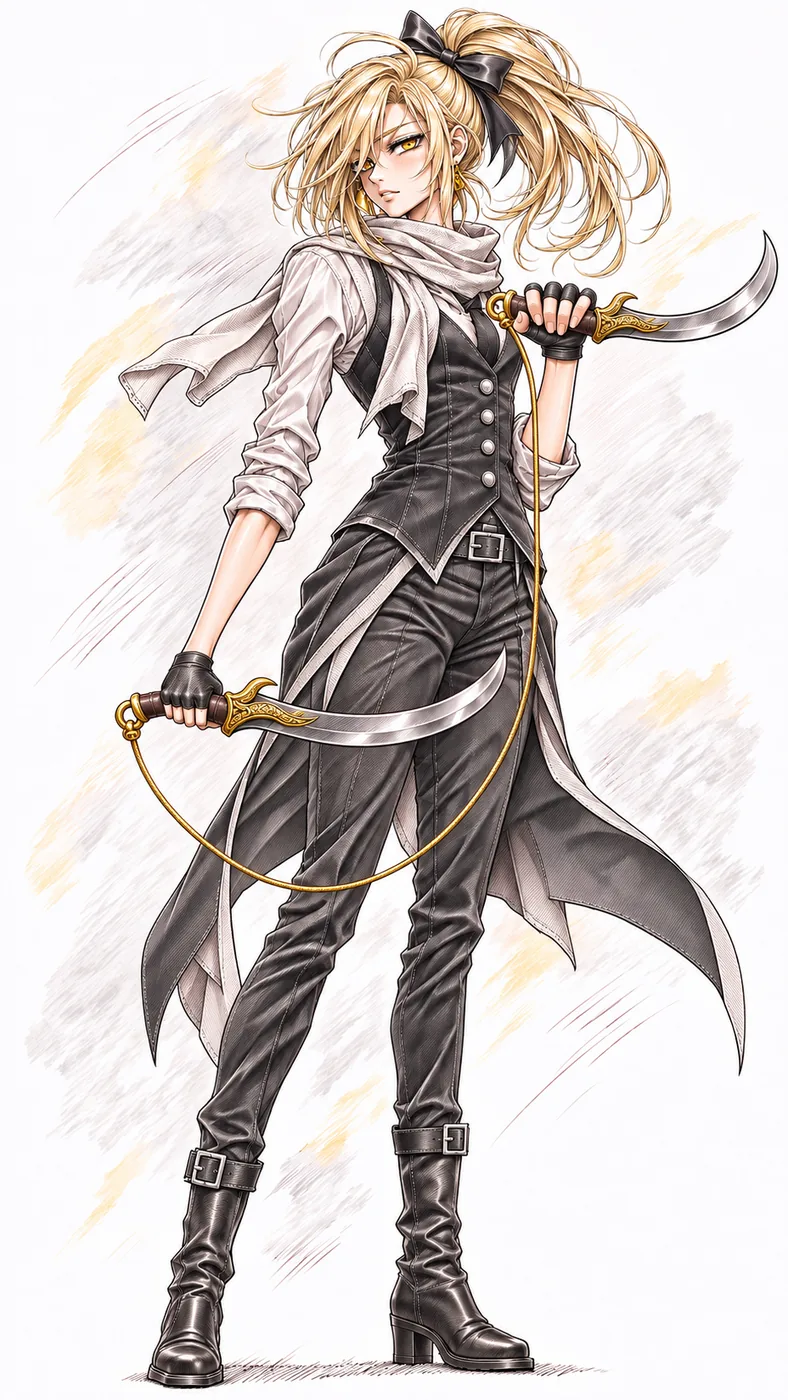
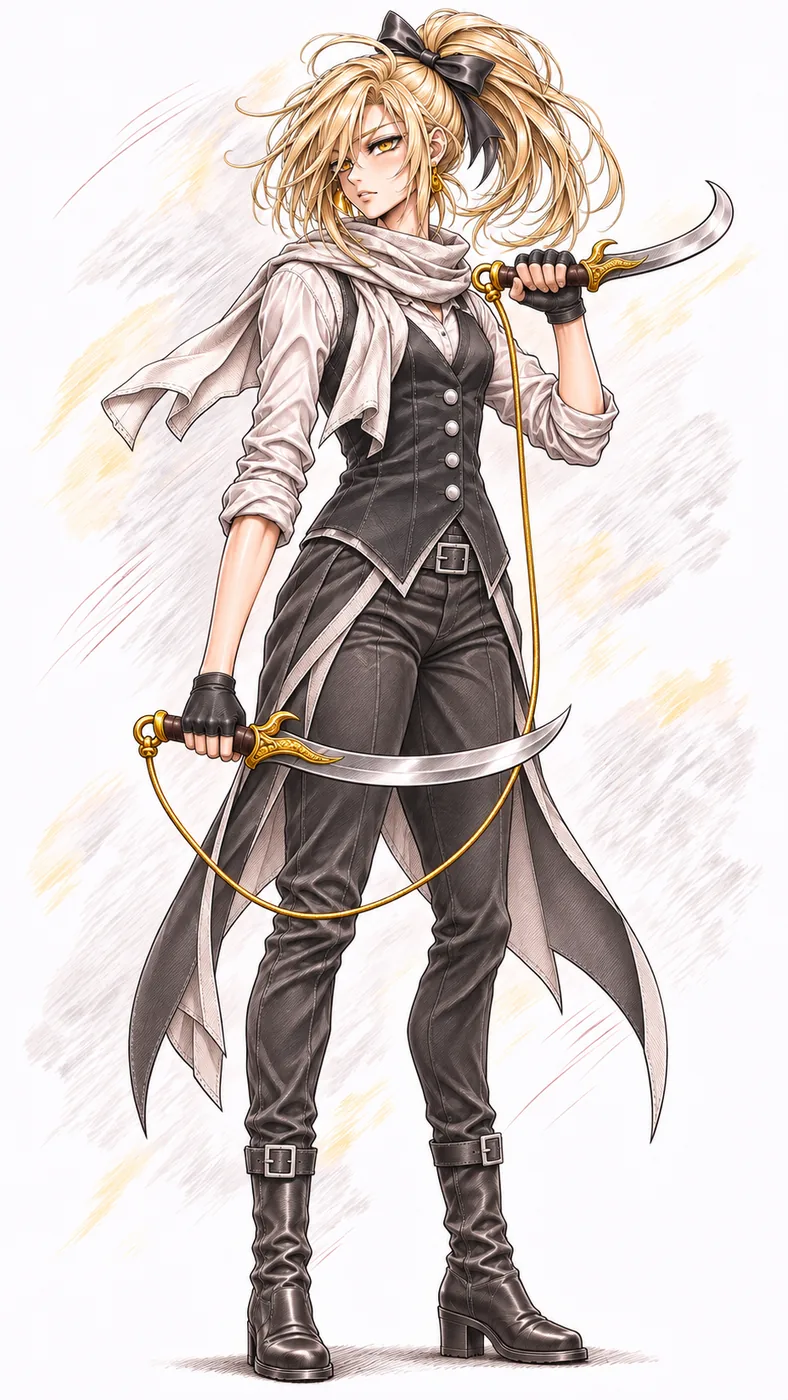
v1.13.15.1 마르자나 현대판 컷인·전신 갱신
Claude-Session: https://claude.ai/code/session_01PBDNhaywpHQ5s49Snvd1Mw

diff --git a/index.html b/index.html
@@ -384,7 +384,7 @@ dialog.notes{background:linear-gradient(180deg,#e6d8bd,#d9c8a8);border:1px solid
 .shrow .ic{display:grid;place-items:center;width:36px;height:36px;border-radius:6px;background:#efe3cb;border:1px solid #b89c6c;font-size:20px;font-family:'Apple Color Emoji','Segoe UI Emoji','Noto Color Emoji',sans-serif}
 .shm b{display:block;font-size:15px;color:#2e2218}.shd{font-size:12px;color:#6b5640}
 .pips{display:flex;gap:3px;margin-top:4px}.pips i{width:12px;height:5px;border-radius:2px;background:#d8c7a6}.pips i.on{background:#c9701e}
-.shbuy{min-width:84px}.achoff{opacity:.62}.achoff .ic{filter:grayscale(1)}.achc{font-weight:700;white-space:nowrap;font-size:.92em}.achget{flex:none;padding:7px 14px;border:0;border-radius:10px;background:linear-gradient(#ffcf4a,#f0a41c);color:#4a2a00;font:inherit;font-weight:800;cursor:pointer;box-shadow:0 2px 0 #b9740c;white-space:nowrap}.achget:active{transform:translateY(1px);box-shadow:none}.shrow.achrdy{background:rgba(255,214,90,.28);border-color:#e6a627;box-shadow:0 0 0 2px rgba(240,164,28,.35) inset}.achall{display:block;width:100%;margin:8px 0 2px;padding:10px;font-size:1.05em}.achdot{display:inline-block;min-width:18px;padding:0 5px;margin-left:4px;border-radius:9px;background:#e8402a;color:#fff;font-size:.8em;line-height:18px;text-align:center}.galgrid{display:grid;grid-template-columns:repeat(auto-fill,minmax(112px,1fr));gap:8px}.galit{display:flex;flex-direction:column;align-items:center;gap:3px;padding:6px;border:1px solid #c4ad84;border-radius:8px;background:rgba(250,244,232,.55);font:inherit;cursor:pointer;color:#3b2a16}.galit b{font-size:.82em;line-height:1.2;text-align:center}.galtag{font-style:normal;font-size:.7em;opacity:.7;line-height:1.1}.galit em{font-style:normal;font-size:.78em;font-weight:700;color:#9a5a12}.galth{display:block;width:104px;height:130px;border-radius:5px;background:#efe6d6 url('assets/gallery/thumbs2.webp?v=6') no-repeat;background-size:600% 700%}/* 썸네일은 한 장짜리 모음(6×7) */.galalpha{background:linear-gradient(160deg,#fdf6ea,#e7d9f3)}.galit.lock .galth{filter:blur(6px) brightness(.55) saturate(.6)}.galit.lock{opacity:.9}.galview{position:fixed;inset:0;z-index:99999;background:rgba(8,8,14,.93);display:flex;align-items:center;justify-content:center}.galview img{max-width:96vw;max-height:84vh;object-fit:contain;border-radius:6px;box-shadow:0 10px 40px rgba(0,0,0,.6)}.galview img.galalpha{background:linear-gradient(160deg,#fdf6ea,#e7d9f3)}.galcap{position:absolute;left:0;right:0;bottom:14px;text-align:center;color:#fff;text-shadow:0 1px 4px #000}.galcap b{display:block;font-size:1.05em}.galcap span{font-size:.82em;opacity:.85}.galx,.galp,.galn{position:absolute;border:0;background:rgba(255,255,255,.14);color:#fff;font-size:28px;width:48px;height:48px;border-radius:50%;cursor:pointer}.galx{top:14px;right:14px;font-size:22px}.galp{left:12px;top:50%;transform:translateY(-50%)}.galn{right:12px;top:50%;transform:translateY(-50%)}.achtabs{display:flex;flex-wrap:wrap;gap:6px;margin:4px 0 10px}.achtab{flex:1 1 auto;padding:7px 10px;border:1px solid #c4ad84;border-radius:999px;background:rgba(250,244,232,.55);font:inherit;font-weight:700;cursor:pointer;color:#5a4224}.achtab small{opacity:.7;font-weight:600}.achtab.on{background:#d9822b;border-color:#b0611a;color:#fff}.shbuy:disabled{opacity:.55}
+.shbuy{min-width:84px}.achoff{opacity:.62}.achoff .ic{filter:grayscale(1)}.achc{font-weight:700;white-space:nowrap;font-size:.92em}.achget{flex:none;padding:7px 14px;border:0;border-radius:10px;background:linear-gradient(#ffcf4a,#f0a41c);color:#4a2a00;font:inherit;font-weight:800;cursor:pointer;box-shadow:0 2px 0 #b9740c;white-space:nowrap}.achget:active{transform:translateY(1px);box-shadow:none}.shrow.achrdy{background:rgba(255,214,90,.28);border-color:#e6a627;box-shadow:0 0 0 2px rgba(240,164,28,.35) inset}.achall{display:block;width:100%;margin:8px 0 2px;padding:10px;font-size:1.05em}.achdot{display:inline-block;min-width:18px;padding:0 5px;margin-left:4px;border-radius:9px;background:#e8402a;color:#fff;font-size:.8em;line-height:18px;text-align:center}.galgrid{display:grid;grid-template-columns:repeat(auto-fill,minmax(112px,1fr));gap:8px}.galit{display:flex;flex-direction:column;align-items:center;gap:3px;padding:6px;border:1px solid #c4ad84;border-radius:8px;background:rgba(250,244,232,.55);font:inherit;cursor:pointer;color:#3b2a16}.galit b{font-size:.82em;line-height:1.2;text-align:center}.galtag{font-style:normal;font-size:.7em;opacity:.7;line-height:1.1}.galit em{font-style:normal;font-size:.78em;font-weight:700;color:#9a5a12}.galth{display:block;width:104px;height:130px;border-radius:5px;background:#efe6d6 url('assets/gallery/thumbs2.webp?v=7') no-repeat;background-size:600% 700%}/* 썸네일은 한 장짜리 모음(6×7) */.galalpha{background:linear-gradient(160deg,#fdf6ea,#e7d9f3)}.galit.lock .galth{filter:blur(6px) brightness(.55) saturate(.6)}.galit.lock{opacity:.9}.galview{position:fixed;inset:0;z-index:99999;background:rgba(8,8,14,.93);display:flex;align-items:center;justify-content:center}.galview img{max-width:96vw;max-height:84vh;object-fit:contain;border-radius:6px;box-shadow:0 10px 40px rgba(0,0,0,.6)}.galview img.galalpha{background:linear-gradient(160deg,#fdf6ea,#e7d9f3)}.galcap{position:absolute;left:0;right:0;bottom:14px;text-align:center;color:#fff;text-shadow:0 1px 4px #000}.galcap b{display:block;font-size:1.05em}.galcap span{font-size:.82em;opacity:.85}.galx,.galp,.galn{position:absolute;border:0;background:rgba(255,255,255,.14);color:#fff;font-size:28px;width:48px;height:48px;border-radius:50%;cursor:pointer}.galx{top:14px;right:14px;font-size:22px}.galp{left:12px;top:50%;transform:translateY(-50%)}.galn{right:12px;top:50%;transform:translateY(-50%)}.achtabs{display:flex;flex-wrap:wrap;gap:6px;margin:4px 0 10px}.achtab{flex:1 1 auto;padding:7px 10px;border:1px solid #c4ad84;border-radius:999px;background:rgba(250,244,232,.55);font:inherit;font-weight:700;cursor:pointer;color:#5a4224}.achtab small{opacity:.7;font-weight:600}.achtab.on{background:#d9822b;border-color:#b0611a;color:#fff}.shbuy:disabled{opacity:.55}
 .shmsg{min-height:18px;color:#2f8a62;font-weight:700;margin:6px 0 0}
 </style>
 
@@ -3510,8 +3510,8 @@ $('retryBtn').onclick=()=>{const h=G.skin||G.heroId;stopMusic();newGame(h)};
 buildPicks(id=>{const k=KIT(id),w=WEAP[HERO[k][0]];/* 1.9.6.0 카드엔 무기 이름·체력·속도만, 자세한 건 툴팁 */return`<span class="pt">${w.ic||''} ${w.name}</span><span class="ps">❤ ${HERO[k][1]} · 👟 ${HERO[k][2]}</span>`});
 
 /* ---------- update notes popup ---------- */
-const NOTES_VER='2026-11-15-2010';
-const NOTES=[["11월 15일 20:10","1.13.15.0","업적 보상 받기",["🏆 업적을 달성하면 업적 목록 맨 위에 반짝이며 떠요. 「받기」를 눌러 코인을 받고, 「🎁 모두 받기」로 한 번에 받을 수도 있어요.","🔴 받을 보상이 있으면 업적 버튼과 탭에 빨간 숫자가 붙어요. (예전에 달성한 업적은 이미 받은 것으로 처리돼요)"]],["11월 15일 18:00","1.13.14.1","새 모습 · 설표 비키니",["🐆 설표에 <b>비키니</b> 복장이 생겼어요. 움직임을 새로 그렸고, 필살기를 쓰면 튜브 → 물보라 → 물총 <b>3컷 컷인</b>이 나와요.","🆕 같은 캐릭터의 여러 모습 중 가장 새 모습이 1번으로 와요.","⚔ 마르자나 현대판 「천지파열무」 컷인을 새로 그린 그림으로 바꿨어요."]],["11월 15일 17:00","1.13.12.8","새 모습 · 설순이 비키니",["🍹 설순이에 <b>비키니</b> 복장: 전용 스킬 「트로피컬 태권」(펀치 · 돌려차기 · 3단 발차기, Lv5 칵테일 파도), 특성 「칵테일 타임」(멈춰 있으면 8박마다 한 모금 회복).","🌴 필살기 「트로피컬 스플래시」: 2컷 컷인 뒤 거대한 칵테일 파도 · 탄산 거품 폭발 · 종이우산 비.","⚖ 너무 세서 공격은 2박에 한 번으로(한 방 피해 +35%), 동작은 조금 느리게, 이펙트는 눈이 편하게 옅게 다듬었어요."]],["11월 15일 16:15","1.13.12.5","일러스트 갤러리 · 새 오프닝",["🖼 처음 화면 <b>일러스트</b> 메뉴: 캐릭터 일러스트 · 필살기 컷인 · LD 전신 38장을 코인으로 해금해 크게 볼 수 있어요. 캐릭터별로 묶여 있어요 (로그인 필요).","🎬 오프닝 영상을 새로 수정한 영상으로 바꿨어요."]],["11월 15일 15:00","1.13.10.0","설표 리뉴얼 · 업적 · 잠금 해제",["🐆 설표 새 움직임 · 새 컷인, Lv3부터 4박마다 표범 연속기. 설표의 얼음 기술(서리 폭발 · 절대영도 · 빙결 성채) 피해 +40%.","🏆 처음 화면 <b>업적</b>: 공통 · 쉬움 · 보통 · 어려움 · 지옥 탭, 처음 달성하면 코인 보상 (로그인 필요).","🔓 모든 캐릭터를 코인 없이 바로 플레이할 수 있어요."]],["11월 15일 11:40","1.13.4.0","새 컷인 · 넉백 조정 · 음악",["🎬 필살기 컷인 새 그림: 아오코 「꽃의 정원」 · 케이트호크 「크림슨 크로스」 · 마르자나 「혈랑마혼」 등, 비스듬한 띠가 들어왔다 빠지는 새 연출.","🌀 적을 너무 멀리 밀어내던 전용 스킬 넉백을 줄였어요 (피해는 그대로).","🎵 밤 · 보스전 배경음악, 캐릭터 선택 전용 곡. 쉬움 난이도 적 탄막은 살구색으로 잘 보이게."]],["11월 15일 04:00","1.12.0.0","새 이펙트 · 오프닝 · 밸런스",["🍃 이드 여행원피스 「여름 산들바람」 · 🐺 마르자나 「혈랑마혼」 새 그림 이펙트.","🎬 오프닝 영상과 새 음악(약 129BPM). 일러스트가 있는 캐릭터는 필살기 때 화면 가득 전신 컷인.","⚖ 전체 밸런스 조정, 몹이 많을 때 끊김 줄이기, 다미로 경화수월 필살기 일러스트."]],["11월 14일 23:55","1.9.7.0","가희 · 다미로 경화수월 · 마르자나",["🗡 새 캐릭터 가희(사파), 새 모습 다미로 경화수월, 마르자나 일반판 새 동작.","🔥 마르자나 현대판 「천지파열무」 · 유에넴 「매화신권」 새 이펙트.","🎴 캐릭터 카드 정리(설명은 말풍선), 판타지 · 무협 목록, 설구리 상향, 멈춤 화면 음량 조절."]],["11월 13일 20:30","1.8.9.5","무한 생존 · 명예의 전당 · 새 BGM",["♾ 무한 생존 강화 단계, 「기록하고 끝내기」, 명예의 전당 모드별 탭.","✨ 전설 다섯 가지 새 그림, 필살기 컷인 중 게임 완전 정지.","🎵 새 배경음악(125BPM)과 「기본 연주」 선택."]],["11월 12일 23:50","1.8.7.8","새 캐릭터 마르자나 · 코인 상점",["🌙 새 캐릭터 마르자나(현대판 · 일반판), 레오나 사자 그림과 「사자 포효」, 레이나 상향.","🪙 지역 수호자 · 코인 상점 · 캐릭터 해금, 전설 조합 발견, 무기 칸 8칸.","💥 필살기 새 단장(돌진 필살기 무적), 첫 로딩 22MB → 6MB, 모바일 최적화."]],["11월 11일 23:45","1.7.1.0","새 모드 · 지옥 변이체",["🎮 새 모드: ♾ 무한 생존 · 👹 보스 러시 (랭킹 탭 따로).","👹 지옥 변이체(화염 · 그림자 · 폭열), 지옥 레벨업 2장, 어려움 조정, 몬스터 지형 충돌.","🎯 공격 범위 색 구분, 스킬 이모티콘, 경험치 · 조합표 잘 보이게, 회복 밸런스, 카밀레 꼬리 그림."]],["11월 10일","1.6.7.3","새 캐릭터 청몽 · 루비샘 · 양피지 테마",["🐺 새 캐릭터 청몽 · 루비샘, 딘코 필살기 「지옥의 파수견」.","📜 크림 양피지 테마, 눈 편한 색, 시작 화면, 일시정지 버튼.","💬 건의 게시판 · 댓글, 전용 무기 상향, 최적화."]],["11월 9일","1.6.1.1","계정 · 온라인 랭킹 · 리워크",["🔑 계정 로그인(게스트 가능), 온라인 랭킹과 명예의 전당 시상대, 계정 기록 🎵 표시.","😼 노브냥이 새 모습 2종, 다미로 「갸루 피스」 · 딘줌마 · 수려은 · 유에넴 리워크.","📱 모바일 화질 · 최적화, 레벨업 난이도 조정."]],["11월 8일","1.2.0.0","박자 대난투 시작",["🎵 박자에 맞춰 싸우는 서바이벌 「박자 대난투」 시작! 새 플레이 캐릭터 10명 등 캐릭터 · 모습 추가.","🗺 난이도별 맵, 필드 몬스터, 전설 스킬 연출, 설정."]]]; // newest first — add new entries at the top
+const NOTES_VER='2026-11-15-2030';
+const NOTES=[["11월 15일 20:30","1.13.15.1","마르자나 현대판 그림 갱신",["⚔ 마르자나 현대판 「천지파열무」 필살기 컷인과 갤러리 전신 일러스트를 다듬은 그림으로 바꿨어요 (곡도 쥔 손 · 자세 수정)."]],["11월 15일 20:10","1.13.15.0","업적 보상 받기",["🏆 업적을 달성하면 업적 목록 맨 위에 반짝이며 떠요. 「받기」를 눌러 코인을 받고, 「🎁 모두 받기」로 한 번에 받을 수도 있어요.","🔴 받을 보상이 있으면 업적 버튼과 탭에 빨간 숫자가 붙어요. (예전에 달성한 업적은 이미 받은 것으로 처리돼요)"]],["11월 15일 18:00","1.13.14.1","새 모습 · 설표 비키니",["🐆 설표에 <b>비키니</b> 복장이 생겼어요. 움직임을 새로 그렸고, 필살기를 쓰면 튜브 → 물보라 → 물총 <b>3컷 컷인</b>이 나와요.","🆕 같은 캐릭터의 여러 모습 중 가장 새 모습이 1번으로 와요.","⚔ 마르자나 현대판 「천지파열무」 컷인을 새로 그린 그림으로 바꿨어요."]],["11월 15일 17:00","1.13.12.8","새 모습 · 설순이 비키니",["🍹 설순이에 <b>비키니</b> 복장: 전용 스킬 「트로피컬 태권」(펀치 · 돌려차기 · 3단 발차기, Lv5 칵테일 파도), 특성 「칵테일 타임」(멈춰 있으면 8박마다 한 모금 회복).","🌴 필살기 「트로피컬 스플래시」: 2컷 컷인 뒤 거대한 칵테일 파도 · 탄산 거품 폭발 · 종이우산 비.","⚖ 너무 세서 공격은 2박에 한 번으로(한 방 피해 +35%), 동작은 조금 느리게, 이펙트는 눈이 편하게 옅게 다듬었어요."]],["11월 15일 16:15","1.13.12.5","일러스트 갤러리 · 새 오프닝",["🖼 처음 화면 <b>일러스트</b> 메뉴: 캐릭터 일러스트 · 필살기 컷인 · LD 전신 38장을 코인으로 해금해 크게 볼 수 있어요. 캐릭터별로 묶여 있어요 (로그인 필요).","🎬 오프닝 영상을 새로 수정한 영상으로 바꿨어요."]],["11월 15일 15:00","1.13.10.0","설표 리뉴얼 · 업적 · 잠금 해제",["🐆 설표 새 움직임 · 새 컷인, Lv3부터 4박마다 표범 연속기. 설표의 얼음 기술(서리 폭발 · 절대영도 · 빙결 성채) 피해 +40%.","🏆 처음 화면 <b>업적</b>: 공통 · 쉬움 · 보통 · 어려움 · 지옥 탭, 처음 달성하면 코인 보상 (로그인 필요).","🔓 모든 캐릭터를 코인 없이 바로 플레이할 수 있어요."]],["11월 15일 11:40","1.13.4.0","새 컷인 · 넉백 조정 · 음악",["🎬 필살기 컷인 새 그림: 아오코 「꽃의 정원」 · 케이트호크 「크림슨 크로스」 · 마르자나 「혈랑마혼」 등, 비스듬한 띠가 들어왔다 빠지는 새 연출.","🌀 적을 너무 멀리 밀어내던 전용 스킬 넉백을 줄였어요 (피해는 그대로).","🎵 밤 · 보스전 배경음악, 캐릭터 선택 전용 곡. 쉬움 난이도 적 탄막은 살구색으로 잘 보이게."]],["11월 15일 04:00","1.12.0.0","새 이펙트 · 오프닝 · 밸런스",["🍃 이드 여행원피스 「여름 산들바람」 · 🐺 마르자나 「혈랑마혼」 새 그림 이펙트.","🎬 오프닝 영상과 새 음악(약 129BPM). 일러스트가 있는 캐릭터는 필살기 때 화면 가득 전신 컷인.","⚖ 전체 밸런스 조정, 몹이 많을 때 끊김 줄이기, 다미로 경화수월 필살기 일러스트."]],["11월 14일 23:55","1.9.7.0","가희 · 다미로 경화수월 · 마르자나",["🗡 새 캐릭터 가희(사파), 새 모습 다미로 경화수월, 마르자나 일반판 새 동작.","🔥 마르자나 현대판 「천지파열무」 · 유에넴 「매화신권」 새 이펙트.","🎴 캐릭터 카드 정리(설명은 말풍선), 판타지 · 무협 목록, 설구리 상향, 멈춤 화면 음량 조절."]],["11월 13일 20:30","1.8.9.5","무한 생존 · 명예의 전당 · 새 BGM",["♾ 무한 생존 강화 단계, 「기록하고 끝내기」, 명예의 전당 모드별 탭.","✨ 전설 다섯 가지 새 그림, 필살기 컷인 중 게임 완전 정지.","🎵 새 배경음악(125BPM)과 「기본 연주」 선택."]],["11월 12일 23:50","1.8.7.8","새 캐릭터 마르자나 · 코인 상점",["🌙 새 캐릭터 마르자나(현대판 · 일반판), 레오나 사자 그림과 「사자 포효」, 레이나 상향.","🪙 지역 수호자 · 코인 상점 · 캐릭터 해금, 전설 조합 발견, 무기 칸 8칸.","💥 필살기 새 단장(돌진 필살기 무적), 첫 로딩 22MB → 6MB, 모바일 최적화."]],["11월 11일 23:45","1.7.1.0","새 모드 · 지옥 변이체",["🎮 새 모드: ♾ 무한 생존 · 👹 보스 러시 (랭킹 탭 따로).","👹 지옥 변이체(화염 · 그림자 · 폭열), 지옥 레벨업 2장, 어려움 조정, 몬스터 지형 충돌.","🎯 공격 범위 색 구분, 스킬 이모티콘, 경험치 · 조합표 잘 보이게, 회복 밸런스, 카밀레 꼬리 그림."]],["11월 10일","1.6.7.3","새 캐릭터 청몽 · 루비샘 · 양피지 테마",["🐺 새 캐릭터 청몽 · 루비샘, 딘코 필살기 「지옥의 파수견」.","📜 크림 양피지 테마, 눈 편한 색, 시작 화면, 일시정지 버튼.","💬 건의 게시판 · 댓글, 전용 무기 상향, 최적화."]],["11월 9일","1.6.1.1","계정 · 온라인 랭킹 · 리워크",["🔑 계정 로그인(게스트 가능), 온라인 랭킹과 명예의 전당 시상대, 계정 기록 🎵 표시.","😼 노브냥이 새 모습 2종, 다미로 「갸루 피스」 · 딘줌마 · 수려은 · 유에넴 리워크.","📱 모바일 화질 · 최적화, 레벨업 난이도 조정."]],["11월 8일","1.2.0.0","박자 대난투 시작",["🎵 박자에 맞춰 싸우는 서바이벌 「박자 대난투」 시작! 새 플레이 캐릭터 10명 등 캐릭터 · 모습 추가.","🗺 난이도별 맵, 필드 몬스터, 전설 스킬 연출, 설정."]]]; // newest first — add new entries at the top
 const NOTES_SHOW=3;
 const NOTES_HTML=(()=>{const ent=([t,ver,title,items],i)=>`<section class='nent'><h3><span class='nver'>v${ver}</span><time>${t}</time>${title}${i===0?"<span class='nnew'>NEW</span>":''}</h3><ul>${items.map(x=>`<li>${x}</li>`).join('')}</ul></section>`;
   const top=NOTES.slice(0,NOTES_SHOW).map(ent).join(''),old=NOTES.slice(NOTES_SHOW);
@@ -3520,7 +3520,7 @@ function showNotes(){let d=document.getElementById('notesDlg');if(!d){d=document
     d.innerHTML=`<div class="nbody">${NOTES_HTML}</div><div class="nbtns"><button type="button" class="btn" id="notesOk">확인</button></div>`;document.body.appendChild(d);
     const close=()=>{try{localStorage.setItem('bb_notes_seen',NOTES_VER)}catch(e){}d.close()};d.querySelector('#notesOk').onclick=close;d.addEventListener('cancel',()=>{try{localStorage.setItem('bb_notes_seen',NOTES_VER)}catch(e){}});d.addEventListener('click',e=>{if(e.target===d)close()})}
   if(!d.open){if(d.showModal)d.showModal();else d.setAttribute('open','')}d.querySelector('#notesOk').focus()}
-(function(){const st=document.getElementById('settings');if(st&&!document.getElementById('notesBtn')){const b=document.createElement('button');b.type='button';b.id='notesBtn';b.className='notesbtn';b.textContent='업데이트 소식 · v1.13.15.0';b.onclick=showNotes;st.insertAdjacentElement('afterend',b)}
+(function(){const st=document.getElementById('settings');if(st&&!document.getElementById('notesBtn')){const b=document.createElement('button');b.type='button';b.id='notesBtn';b.className='notesbtn';b.textContent='업데이트 소식 · v1.13.15.1';b.onclick=showNotes;st.insertAdjacentElement('afterend',b)}
   let seen='';try{seen=localStorage.getItem('bb_notes_seen')||''}catch(e){}if(seen!==NOTES_VER)SPLASH_DONE.then(()=>setTimeout(showNotes,300))})();
 document.querySelectorAll('.pick').forEach(b=>b.onclick=()=>{if(performance.now()<PTOG)return;newGame(b.dataset.hero)});refreshLocks();
 function showOnly(id){['titleOv','lvOv','pauseOv','endOv'].forEach(k=>$(k).hidden=k!==id);$('spBtn').hidden=id!==null;$('pzBtn').hidden=id!==null}
@@ -3713,10 +3713,10 @@ let last=performance.now();
 /* 1.8.5.7 컷인 개선: 컷인이 떠 있는 동안 게임 시간을 거의 멈추고(0.04배), 컷인을 짧게(0.8초)·위쪽으로 올려 필살기 연출이 컷인 뒤에 처음부터 보이게 */
 let CUT_T=.8;/* 1.11.0.0 전신 컷인이 있는 캐릭터는 1.25초 */
 /* 1.9.3.1 필살기 컷인에 LD 일러스트 사용 (있는 캐릭터만; 없거나 아직 안 떴으면 SD) */
-const CUTLD={gahee:'assets/sprites/gahee_ld2.webp',yuenem:'assets/sprites/yuenem_ld.webp',damiroK:'assets/sprites/damiroK_ld.webp',nid:'assets/sprites/nid_ld.webp',knight:'assets/sprites/knight_ld.webp',glassesB:'assets/sprites/glassesB_ld.webp',nobu:'assets/sprites/nobu_ld.webp',nobu2:'assets/sprites/nobu2_ld.webp',nobu3:'assets/sprites/nobu3_ld.webp',elf:'assets/sprites/elf_ld.webp',idtrip:'assets/sprites/idtrip_ld.webp',kate:'assets/sprites/kate_ld.webp',marjanao:'assets/sprites/marjanao_ld.webp',angel:'assets/sprites/angel_ld.webp',violet:'assets/sprites/violet_ld.webp'}/* 1.9.8.0 LD 일러스트가 있는 캐릭터는 필살기 발동 화면에 일러스트 */,CUTIM={};/* 1.11.0.0 제작 컷인(무릎 위 전신 그림): 띠 대신 화면 가득 연출 */const CUTART={violet:'assets/sprites/cut_violet.webp',violetR:'assets/sprites/cut_violet.webp',knight:'assets/sprites/cut_knight.webp',angel:'assets/sprites/cut_angel.webp',marjanao:'assets/sprites/cut_marjanao.webp?v=2',damiro:'assets/sprites/cut_damiro.webp',lion:'assets/sprites/cut_lion.webp',elf:'assets/sprites/cut_elf.webp',devil:'assets/sprites/cut_devil.webp',nid:'assets/sprites/cut_nid2.webp',glassesB:'assets/sprites/cut_glassesB.webp?v=2',nobu:'assets/sprites/cut_nobu.webp?v=2',nobu2:'assets/sprites/cut_nobu2.webp?v=2',nobu3:'assets/sprites/cut_nobu3.webp?v=2',idtrip:'assets/sprites/cut_idtrip.webp?v=2',kate:'assets/sprites/cut_kate.webp?v=3',gahee:'assets/sprites/cut_gahee.webp?v=2',yuenem:'assets/sprites/cut_yuenem.webp?v=2',damiroK:'assets/sprites/cut_damiroK.webp?v=4',marjanam:'assets/sprites/cut_marjanam.webp?v=3',princess:'assets/sprites/cut_princess.webp?v=2'},CUTFX={marjanam:.62,princess:.72,nid:.7}/* 가로 컷인: 얼굴이 있는 가로 위치(0~1) */,CUTAIM={};/* 1.11.0.1 LD 일러스트만 있던 캐릭터도 같은 전신 컷인으로 */
+const CUTLD={gahee:'assets/sprites/gahee_ld2.webp',yuenem:'assets/sprites/yuenem_ld.webp',damiroK:'assets/sprites/damiroK_ld.webp',nid:'assets/sprites/nid_ld.webp',knight:'assets/sprites/knight_ld.webp',glassesB:'assets/sprites/glassesB_ld.webp',nobu:'assets/sprites/nobu_ld.webp',nobu2:'assets/sprites/nobu2_ld.webp',nobu3:'assets/sprites/nobu3_ld.webp',elf:'assets/sprites/elf_ld.webp',idtrip:'assets/sprites/idtrip_ld.webp',kate:'assets/sprites/kate_ld.webp',marjanao:'assets/sprites/marjanao_ld.webp',angel:'assets/sprites/angel_ld.webp',violet:'assets/sprites/violet_ld.webp'}/* 1.9.8.0 LD 일러스트가 있는 캐릭터는 필살기 발동 화면에 일러스트 */,CUTIM={};/* 1.11.0.0 제작 컷인(무릎 위 전신 그림): 띠 대신 화면 가득 연출 */const CUTART={violet:'assets/sprites/cut_violet.webp',violetR:'assets/sprites/cut_violet.webp',knight:'assets/sprites/cut_knight.webp',angel:'assets/sprites/cut_angel.webp',marjanao:'assets/sprites/cut_marjanao.webp?v=2',damiro:'assets/sprites/cut_damiro.webp',lion:'assets/sprites/cut_lion.webp',elf:'assets/sprites/cut_elf.webp',devil:'assets/sprites/cut_devil.webp',nid:'assets/sprites/cut_nid2.webp',glassesB:'assets/sprites/cut_glassesB.webp?v=2',nobu:'assets/sprites/cut_nobu.webp?v=2',nobu2:'assets/sprites/cut_nobu2.webp?v=2',nobu3:'assets/sprites/cut_nobu3.webp?v=2',idtrip:'assets/sprites/cut_idtrip.webp?v=2',kate:'assets/sprites/cut_kate.webp?v=3',gahee:'assets/sprites/cut_gahee.webp?v=2',yuenem:'assets/sprites/cut_yuenem.webp?v=2',damiroK:'assets/sprites/cut_damiroK.webp?v=4',marjanam:'assets/sprites/cut_marjanam.webp?v=4',princess:'assets/sprites/cut_princess.webp?v=2'},CUTFX={marjanam:.62,princess:.72,nid:.7}/* 가로 컷인: 얼굴이 있는 가로 위치(0~1) */,CUTAIM={};/* 1.11.0.1 LD 일러스트만 있던 캐릭터도 같은 전신 컷인으로 */
 const cutArt=id=>{const im=CUTAIM[id];return im&&im.complete&&im.naturalWidth?im:null};
 /* 1.13.8.0 GIF 컷인: 일러스트 폴더에 미리보기 GIF가 있는 캐릭터는 그 연출 그대로 (band: 비스듬한 종이 띠 + 투명 캐릭터판, 2cut: 화면 가득 1컷 → 섬광 → 2컷) */
-const CUTGIF={nid:{mode:'band',a:'assets/sprites/cutc_nid.webp',fx:.7},princess:{mode:'band',a:'assets/sprites/cutc_princess.webp',fx:.72},marjanam:{mode:'band',a:'assets/sprites/cutc_marjanam.webp?v=2',fx:.62},violetB:{mode:'2cut',a:'assets/sprites/cut_violetB1.webp',b:'assets/sprites/cut_violetB2.webp'},nidB:{mode:'3cut',a:'assets/sprites/cut3_nidB.webp'}},CGIM={};
+const CUTGIF={nid:{mode:'band',a:'assets/sprites/cutc_nid.webp',fx:.7},princess:{mode:'band',a:'assets/sprites/cutc_princess.webp',fx:.72},marjanam:{mode:'band',a:'assets/sprites/cutc_marjanam.webp?v=3',fx:.62},violetB:{mode:'2cut',a:'assets/sprites/cut_violetB1.webp',b:'assets/sprites/cut_violetB2.webp'},nidB:{mode:'3cut',a:'assets/sprites/cut3_nidB.webp'}},CGIM={};
 const cgI=src=>{const im=CGIM[src];return im&&im.complete&&im.naturalWidth?im:null};
 function needCutGif(id){const g=CUTGIF[id];if(!g)return;for(const src of [g.a,g.b])if(src&&!CGIM[src]){const im=new Image();im.decoding='async';im.src=src;if(im.decode)im.decode().catch(()=>{});CGIM[src]=im}}
 const cutGifOk=id=>{const g=CUTGIF[id];return !!(g&&cgI(g.a)&&(!g.b||cgI(g.b)))};
@@ -4463,7 +4463,7 @@ function showAch(){let d=$('achDlg');if(!d){d=document.createElement('dialog');d
   d.querySelector('#achOk').onclick=()=>d.close();const done=c=>{if(c)toast(`🪙 업적 보상 +${c.toLocaleString()} 코인`,1600);showAch()};d.querySelectorAll('.achget').forEach(b=>b.onclick=async()=>{b.disabled=true;done(await achClaim([b.dataset.id]))});const all=d.querySelector('#achAll');if(all)all.onclick=async()=>{all.disabled=true;done(await achClaim(RD.map(a=>a.id)))};d.querySelectorAll('.achtab').forEach(b=>b.onclick=()=>{ACHT=b.dataset.g;showAch()});if(!d.open)d.showModal?d.showModal():d.setAttribute('open','')}
 
 /* 1.13.11.0 일러스트 갤러리: 캐릭터 일러스트 · 필살기 컷인 · LD 전신을 코인으로 해금해서 크게 보기. 해금 기록은 SH.data.gal (계정, 로그인 필요) */
-const GAL=[{id:'il_aoko',n:'아오코',g:'일러스트',c:60,a:0,t:0},{id:'il_marjanam',n:'마르자나 · 현대판',g:'일러스트',c:60,a:0,t:1,f:'assets/gallery/il_marjanam.webp?v=2'},{id:'il_kate',n:'케이트호크',g:'일러스트',c:60,a:0,t:2},{id:'il_damiroK',n:'다미로 · 경화수월',g:'일러스트',c:60,a:0,t:3},{id:'il_damiroB',n:'다미로 · 비키니',g:'일러스트',c:60,a:0,t:4},{id:'il_violetB',n:'설순이 · 칵테일',g:'일러스트',c:60,a:0,t:5},{id:'il_violetB2',n:'설순이 · 바텐더 의자',g:'일러스트',c:60,a:0,t:6},{id:'il_violetB3',n:'설순이 · 바람 부는 해변',g:'일러스트',c:60,a:0,t:22},{id:'il_violetB4',n:'설순이 · 노을 한 모금',g:'일러스트',c:60,a:0,t:27},{id:'il_angel',n:'이드 · 천사악마 전신',g:'일러스트',c:60,a:0,t:35},{id:'il_nid',n:'설표 · 고양이 튜브',g:'일러스트',c:60,a:0,t:7},{id:'il_nid2',n:'설표 · 튜브 물장난',g:'일러스트',c:60,a:0,t:8},{id:'il_nid3',n:'설표 · 물보라',g:'일러스트',c:60,a:0,t:9},{id:'il_nid4',n:'설표 · 물총',g:'일러스트',c:60,a:0,t:10},{id:'ct_nid',n:'설표 · 눈송이 발차기',g:'필살기 컷인',c:30,a:0,t:11,f:'assets/sprites/cut_nid2.webp'},{id:'ct_princess',n:'아오코 · 꽃의 정원',g:'필살기 컷인',c:30,a:0,t:12,f:'assets/sprites/cut_princess.webp'},{id:'ct_marjanam',n:'마르자나 · 천지파열무',g:'필살기 컷인',c:30,a:0,t:13,f:'assets/sprites/cut_marjanam.webp?v=3'},{id:'ct_violetB1',n:'설순이 · 째려보기',g:'필살기 컷인',c:30,a:0,t:14,f:'assets/sprites/cut_violetB1.webp'},{id:'ct_violetB2',n:'설순이 · 칵테일 뿌리기',g:'필살기 컷인',c:30,a:0,t:15,f:'assets/sprites/cut_violetB2.webp'},{id:'ct_elf',n:'레이나 · 질풍 연참',g:'필살기 컷인',c:30,a:1,t:29,f:'assets/sprites/cut_elf.webp'},{id:'ct_knight',n:'세레나 · 월광 베기',g:'필살기 컷인',c:30,a:1,t:28,f:'assets/sprites/cut_knight.webp'},{id:'ct_angel',n:'이드 · 심판의 고리',g:'필살기 컷인',c:30,a:1,t:30,f:'assets/sprites/cut_angel.webp'},{id:'ct_lion',n:'레오나 · 사자 포효',g:'필살기 컷인',c:30,a:1,t:31,f:'assets/sprites/cut_lion.webp'},{id:'ct_damiro',n:'다미로 · 하트 스핀',g:'필살기 컷인',c:30,a:1,t:32,f:'assets/sprites/cut_damiro.webp'},{id:'ct_nidB',n:'설표 · 비키니 3컷',g:'필살기 컷인',c:40,a:1,t:37},{id:'ct_elf2',n:'레이나 · 질풍 연참 (움직이는 컷인)',g:'필살기 컷인',c:40,a:0,t:36},{id:'ct_kate',n:'케이트호크 · 크림슨 크로스',g:'필살기 컷인',c:30,a:1,t:33,f:'assets/sprites/cut_kate.webp?v=3'},{id:'ct_marjanao',n:'마르자나 · 혈랑마혼',g:'필살기 컷인',c:30,a:1,t:34,f:'assets/sprites/cut_marjanao.webp?v=2'},{id:'ld_gahee',n:'가희 · 사파',g:'LD 전신',c:40,a:0,t:16},{id:'ld_nid',n:'설표',g:'LD 전신',c:40,a:0,t:17},{id:'ld_knight',n:'세레나',g:'LD 전신',c:40,a:0,t:18},{id:'ld_elf',n:'레이나',g:'LD 전신',c:40,a:0,t:19},{id:'ld_yuenem',n:'유에넴',g:'LD 전신',c:40,a:0,t:20},{id:'ld_idtrip',n:'이드 · 여행원피스',g:'LD 전신',c:40,a:1,t:21},{id:'ld_nobu',n:'노브냥이 · 서큐버스',g:'LD 전신',c:40,a:1,t:23},{id:'ld_nobu2',n:'노브냥이 · 서큐버스 2',g:'LD 전신',c:40,a:0,t:24},{id:'ld_nobuR',n:'노브냥이 · 루비 드레스',g:'LD 전신',c:40,a:1,t:25},{id:'ld_santa',n:'마르자나 · 산타',g:'LD 전신',c:40,a:0,t:26}],GALG=['일러스트','필살기 컷인','LD 전신'],GALI={'일러스트':'🎨','필살기 컷인':'🎬','LD 전신':'🧍'};
+const GAL=[{id:'il_aoko',n:'아오코',g:'일러스트',c:60,a:0,t:0},{id:'il_marjanam',n:'마르자나 · 현대판',g:'일러스트',c:60,a:0,t:1,f:'assets/gallery/il_marjanam.webp?v=3'},{id:'il_kate',n:'케이트호크',g:'일러스트',c:60,a:0,t:2},{id:'il_damiroK',n:'다미로 · 경화수월',g:'일러스트',c:60,a:0,t:3},{id:'il_damiroB',n:'다미로 · 비키니',g:'일러스트',c:60,a:0,t:4},{id:'il_violetB',n:'설순이 · 칵테일',g:'일러스트',c:60,a:0,t:5},{id:'il_violetB2',n:'설순이 · 바텐더 의자',g:'일러스트',c:60,a:0,t:6},{id:'il_violetB3',n:'설순이 · 바람 부는 해변',g:'일러스트',c:60,a:0,t:22},{id:'il_violetB4',n:'설순이 · 노을 한 모금',g:'일러스트',c:60,a:0,t:27},{id:'il_angel',n:'이드 · 천사악마 전신',g:'일러스트',c:60,a:0,t:35},{id:'il_nid',n:'설표 · 고양이 튜브',g:'일러스트',c:60,a:0,t:7},{id:'il_nid2',n:'설표 · 튜브 물장난',g:'일러스트',c:60,a:0,t:8},{id:'il_nid3',n:'설표 · 물보라',g:'일러스트',c:60,a:0,t:9},{id:'il_nid4',n:'설표 · 물총',g:'일러스트',c:60,a:0,t:10},{id:'ct_nid',n:'설표 · 눈송이 발차기',g:'필살기 컷인',c:30,a:0,t:11,f:'assets/sprites/cut_nid2.webp'},{id:'ct_princess',n:'아오코 · 꽃의 정원',g:'필살기 컷인',c:30,a:0,t:12,f:'assets/sprites/cut_princess.webp'},{id:'ct_marjanam',n:'마르자나 · 천지파열무',g:'필살기 컷인',c:30,a:0,t:13,f:'assets/sprites/cut_marjanam.webp?v=4'},{id:'ct_violetB1',n:'설순이 · 째려보기',g:'필살기 컷인',c:30,a:0,t:14,f:'assets/sprites/cut_violetB1.webp'},{id:'ct_violetB2',n:'설순이 · 칵테일 뿌리기',g:'필살기 컷인',c:30,a:0,t:15,f:'assets/sprites/cut_violetB2.webp'},{id:'ct_elf',n:'레이나 · 질풍 연참',g:'필살기 컷인',c:30,a:1,t:29,f:'assets/sprites/cut_elf.webp'},{id:'ct_knight',n:'세레나 · 월광 베기',g:'필살기 컷인',c:30,a:1,t:28,f:'assets/sprites/cut_knight.webp'},{id:'ct_angel',n:'이드 · 심판의 고리',g:'필살기 컷인',c:30,a:1,t:30,f:'assets/sprites/cut_angel.webp'},{id:'ct_lion',n:'레오나 · 사자 포효',g:'필살기 컷인',c:30,a:1,t:31,f:'assets/sprites/cut_lion.webp'},{id:'ct_damiro',n:'다미로 · 하트 스핀',g:'필살기 컷인',c:30,a:1,t:32,f:'assets/sprites/cut_damiro.webp'},{id:'ct_nidB',n:'설표 · 비키니 3컷',g:'필살기 컷인',c:40,a:1,t:37},{id:'ct_elf2',n:'레이나 · 질풍 연참 (움직이는 컷인)',g:'필살기 컷인',c:40,a:0,t:36},{id:'ct_kate',n:'케이트호크 · 크림슨 크로스',g:'필살기 컷인',c:30,a:1,t:33,f:'assets/sprites/cut_kate.webp?v=3'},{id:'ct_marjanao',n:'마르자나 · 혈랑마혼',g:'필살기 컷인',c:30,a:1,t:34,f:'assets/sprites/cut_marjanao.webp?v=2'},{id:'ld_gahee',n:'가희 · 사파',g:'LD 전신',c:40,a:0,t:16},{id:'ld_nid',n:'설표',g:'LD 전신',c:40,a:0,t:17},{id:'ld_knight',n:'세레나',g:'LD 전신',c:40,a:0,t:18},{id:'ld_elf',n:'레이나',g:'LD 전신',c:40,a:0,t:19},{id:'ld_yuenem',n:'유에넴',g:'LD 전신',c:40,a:0,t:20},{id:'ld_idtrip',n:'이드 · 여행원피스',g:'LD 전신',c:40,a:1,t:21},{id:'ld_nobu',n:'노브냥이 · 서큐버스',g:'LD 전신',c:40,a:1,t:23},{id:'ld_nobu2',n:'노브냥이 · 서큐버스 2',g:'LD 전신',c:40,a:0,t:24},{id:'ld_nobuR',n:'노브냥이 · 루비 드레스',g:'LD 전신',c:40,a:1,t:25},{id:'ld_santa',n:'마르자나 · 산타',g:'LD 전신',c:40,a:0,t:26}],GALG=['일러스트','필살기 컷인','LD 전신'],GALI={'일러스트':'🎨','필살기 컷인':'🎬','LD 전신':'🧍'};
 const galOwn=id=>AU.on&&!!(SH.data&&SH.data.gal&&SH.data.gal[id]);
 async function galBuy(it){if(!AU.on)return 'login';SH.load();if(galOwn(it.id))return 'have';if(AU.coins()<it.c)return 'poor';await AU.addCoins(-it.c);SH.data.gal=SH.data.gal||{};SH.data.gal[it.id]=1;SH.save();return 'ok'}
 function galView(i){const L=galOrd().filter(x=>galOwn(x.id));let k=Math.max(0,L.findIndex(x=>x.id===i));let v=$('galView');if(!v){v=document.createElement('div');v.id='galView';v.className='galview';const dd=$('galDlg');(dd&&dd.open?dd:document.body).appendChild(v)/* 모달 창 위(top layer)에 보이게 창 안에 붙임 */}
